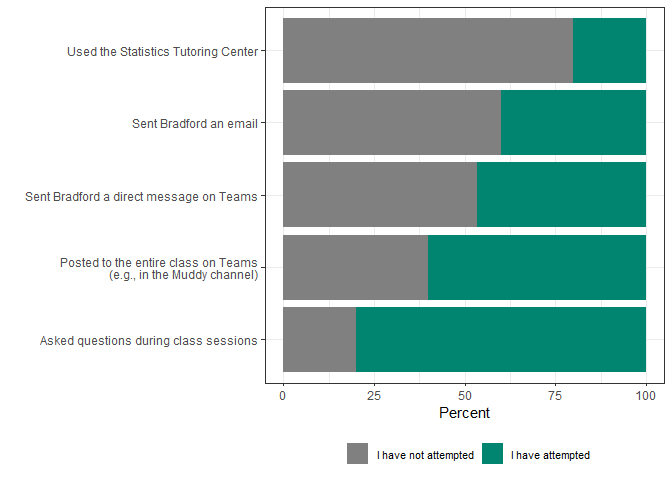
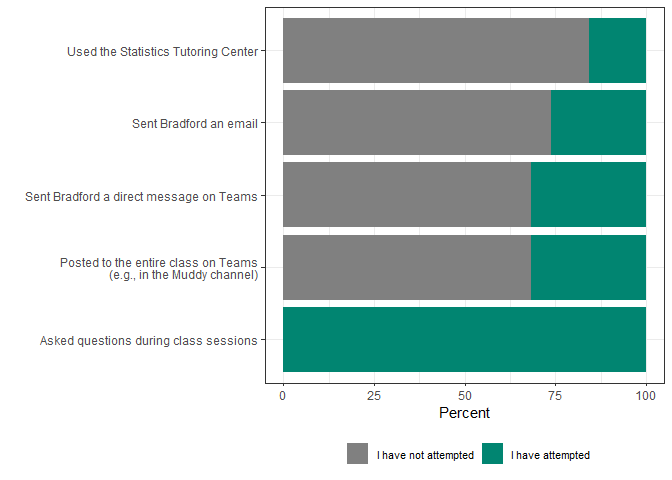
Update W24

Changed region(s): [[0.625, 0.1875, 0.8438, 0.625], [0.4062, 0.625, 0.5312, 0.7812], [0.8438, 0.0312, 0.875, 0.1875]]

diff --git a/README.md b/README.md
@@ -12,7 +12,7 @@ library(ggwordcloud)
 ``` r
 # You wont be able to run this as you do not have access on my GDrive
 # However, the string here is from the Google Sheet's url - between the "/d/" and "/edit..."
-sta631_evals <- googlesheets4::read_sheet("https://docs.google.com/spreadsheets/d/1_hvgvVPWbjrVDrOPPlb1U6ZDDxyw2iVUrS5FHxmGrOY/edit#gid=1940158762")
+sta631_evals <- googlesheets4::read_sheet("https://docs.google.com/spreadsheets/d/1tNzCYJLHRVUsadfUBO3YDz_n8zxIzv87G7_Ml92Knzg/edit?resourcekey#gid=1815260115")
 
 # Create scales and color palettes
 effort_scale <- c("I have not attempted", "Less than 50%", "More than 50%, but not everything", "Essentially 100%")
@@ -39,7 +39,25 @@ likert_info <- tibble(
 )
 ```
 
-This report was generated with **15 responses**.
+This report was generated with **19 responses**.
+
+``` r
+# Bar chart of sections
+sta631_evals %>% 
+  group_by(`What section are you in?`) %>% 
+  summarise(n = n()) %>% 
+  mutate(perc = n / sum(n)) %>% 
+  ggplot() +
+  geom_col(aes(y = `What section are you in?`,
+               x = perc)) +
+  theme_bw() +
+  scale_x_continuous(labels = scales::label_percent()) +
+  labs(title = "What section are you in?",
+       y = "",
+       x = "Percent")
+```
+
+![](README_files/figure-gfm/sections-1.png)<!-- -->
 
 ## Your Engagement
 
@@ -129,37 +147,34 @@ course_summary <- sta631_evals %>%
                names_pattern = ".* \\[(.*)\\]") %>% 
   group_by(item, response) %>% 
   summarise(freq = n()) %>% 
-  mutate(perc = round(freq / sum(freq) * 100, 1))
+  mutate(perc = freq / sum(freq))
 
 course <- course_summary %>% 
   select(-freq) %>% 
   left_join(likert_info, by = c("response" = "scale"))
 
-course_agree <- course %>% 
-  filter(str_detect(response, " agree"))
-
-course_disagree <- course %>% 
-  filter(!str_detect(response, " agree"))
-
-ggplot() +
-  # Notice that I am plotting two different datasets, the "agree" dataset:
-  geom_bar(data = course_agree,
-           aes(y = str_wrap(item, width = 40), x = perc, fill = color),
-           position = "stack", stat = "identity") +
-  # And the "disagree" dataset:
-  geom_bar(data = course_disagree,
-           aes(y = str_wrap(item, width = 40), x = -perc, fill = color),
-           position = "stack", stat = "identity") +
-  labs(y = "",
-       x = "Percent") +
-  scale_x_continuous(limits = c(-100, 100)) +
+course %>% 
+  # Tricking ggplot2 to plot in two directions
+  ggplot(aes(x = if_else(str_detect(response, " agree"), perc, -perc), y = item, 
+             fill = color)) +
+  geom_col(color = "black") +
   scale_fill_identity("", labels = likert_scale, 
                       breaks = likert_palette, guide = "legend",
                       drop = FALSE) +
-  theme_bw() +
+  scale_x_continuous(labels = scales::label_percent(style_negative = "parens"),
+                     expand = expansion(add = 0.4),
+                     limits = c(-1, 1)) +
+  geom_vline(xintercept = 0, color = "gray50", linewidth = 1) +
+  labs(
+    title = "",
+    y = "",
+    x = "Percent",
+    fill = ""
+  ) +
+  theme_bw(base_size = 10) +
   theme(legend.position="bottom",
-        legend.box="horizontal",
-        legend.text = element_text(size = 8))
+        strip.background = element_rect(fill = NA),
+        strip.text = element_text(face = "bold"))
 ```
 
 ![](README_files/figure-gfm/course-items-1.png)<!-- -->
@@ -172,37 +187,35 @@ tools_summary <- sta631_evals %>%
                names_pattern = ".* \\[(.*)\\]") %>% 
   group_by(item, response) %>% 
   summarise(freq = n()) %>% 
-  mutate(perc = round(freq / sum(freq) * 100, 1))
+  mutate(perc = freq / sum(freq))
 
 tools <- tools_summary %>% 
   select(-freq) %>% 
   left_join(likert_info, by = c("response" = "scale"))
 
-tools_agree <- tools %>% 
-  filter(str_detect(response, " agree"))
-
-tools_disagree <- tools %>% 
-  filter(!str_detect(response, " agree"))
-
-ggplot() +
-  # Notice that I am plotting two different datasets, the "agree" dataset:
-  geom_bar(data = tools_agree,
-           aes(y = str_wrap(item, width = 40), x = perc, fill = color),
-           position = "stack", stat = "identity") +
-  # And the "disagree" dataset:
-  geom_bar(data = tools_disagree,
-           aes(y = str_wrap(item, width = 40), x = -perc, fill = color),
-           position = "stack", stat = "identity") +
-  labs(y = "",
-       x = "Percent") +
-  scale_x_continuous(limits = c(-100, 100)) +
+tools %>% 
+  # Tricking ggplot2 to plot in two directions
+  ggplot(aes(x = if_else(str_detect(response, " agree"), perc, -perc), 
+             y = str_wrap(item, width = 40), 
+             fill = color)) +
+  geom_col(color = "black") +
   scale_fill_identity("", labels = likert_scale, 
                       breaks = likert_palette, guide = "legend",
                       drop = FALSE) +
-  theme_bw() +
+  scale_x_continuous(labels = scales::label_percent(style_negative = "parens"),
+                     expand = expansion(add = 0.4),
+                     limits = c(-1, 1)) +
+  geom_vline(xintercept = 0, color = "gray50", linewidth = 1) +
+  labs(
+    title = "",
+    y = "",
+    x = "Percent",
+    fill = ""
+  ) +
+  theme_bw(base_size = 10) +
   theme(legend.position="bottom",
-        legend.box="horizontal",
-        legend.text = element_text(size = 8))
+        strip.background = element_rect(fill = NA),
+        strip.text = element_text(face = "bold"))
 ```
 
 ![](README_files/figure-gfm/tools-items-1.png)<!-- -->
@@ -215,37 +228,35 @@ instructor_summary <- sta631_evals %>%
                names_pattern = ".* \\[(.*)\\]") %>% 
   group_by(item, response) %>% 
   summarise(freq = n()) %>% 
-  mutate(perc = round(freq / sum(freq) * 100, 1))
+  mutate(perc = freq / sum(freq))
 
 instructor <- instructor_summary %>% 
   select(-freq) %>% 
   left_join(likert_info, by = c("response" = "scale"))
 
-instructor_agree <- instructor %>% 
-  filter(str_detect(response, " agree"))
-
-instructor_disagree <- instructor %>% 
-  filter(!str_detect(response, " agree"))
-
-ggplot() +
-  # Notice that I am plotting two different datasets, the "agree" dataset:
-  geom_bar(data = instructor_agree,
-           aes(y = str_wrap(item, width = 40), x = perc, fill = color),
-           position = "stack", stat = "identity") +
-  # And the "disagree" dataset:
-  geom_bar(data = instructor_disagree,
-           aes(y = str_wrap(item, width = 40), x = -perc, fill = color),
-           position = "stack", stat = "identity") +
-  labs(y = "",
-       x = "Percent") +
-  scale_x_continuous(limits = c(-100, 100)) +
+instructor %>% 
+  # Tricking ggplot2 to plot in two directions
+  ggplot(aes(x = if_else(str_detect(response, " agree"), perc, -perc), 
+             y = str_wrap(item, width = 40), 
+             fill = color)) +
+  geom_col(color = "black") +
   scale_fill_identity("", labels = likert_scale, 
                       breaks = likert_palette, guide = "legend",
                       drop = FALSE) +
-  theme_bw() +
+  scale_x_continuous(labels = scales::label_percent(style_negative = "parens"),
+                     expand = expansion(add = 0.4),
+                     limits = c(-1, 1)) +
+  geom_vline(xintercept = 0, color = "gray50", linewidth = 1) +
+  labs(
+    title = "",
+    y = "",
+    x = "Percent",
+    fill = ""
+  ) +
+  theme_bw(base_size = 10) +
   theme(legend.position="bottom",
-        legend.box="horizontal",
-        legend.text = element_text(size = 8))
+        strip.background = element_rect(fill = NA),
+        strip.text = element_text(face = "bold"))
 ```
 
 ![](README_files/figure-gfm/instructor-1.png)<!-- -->
